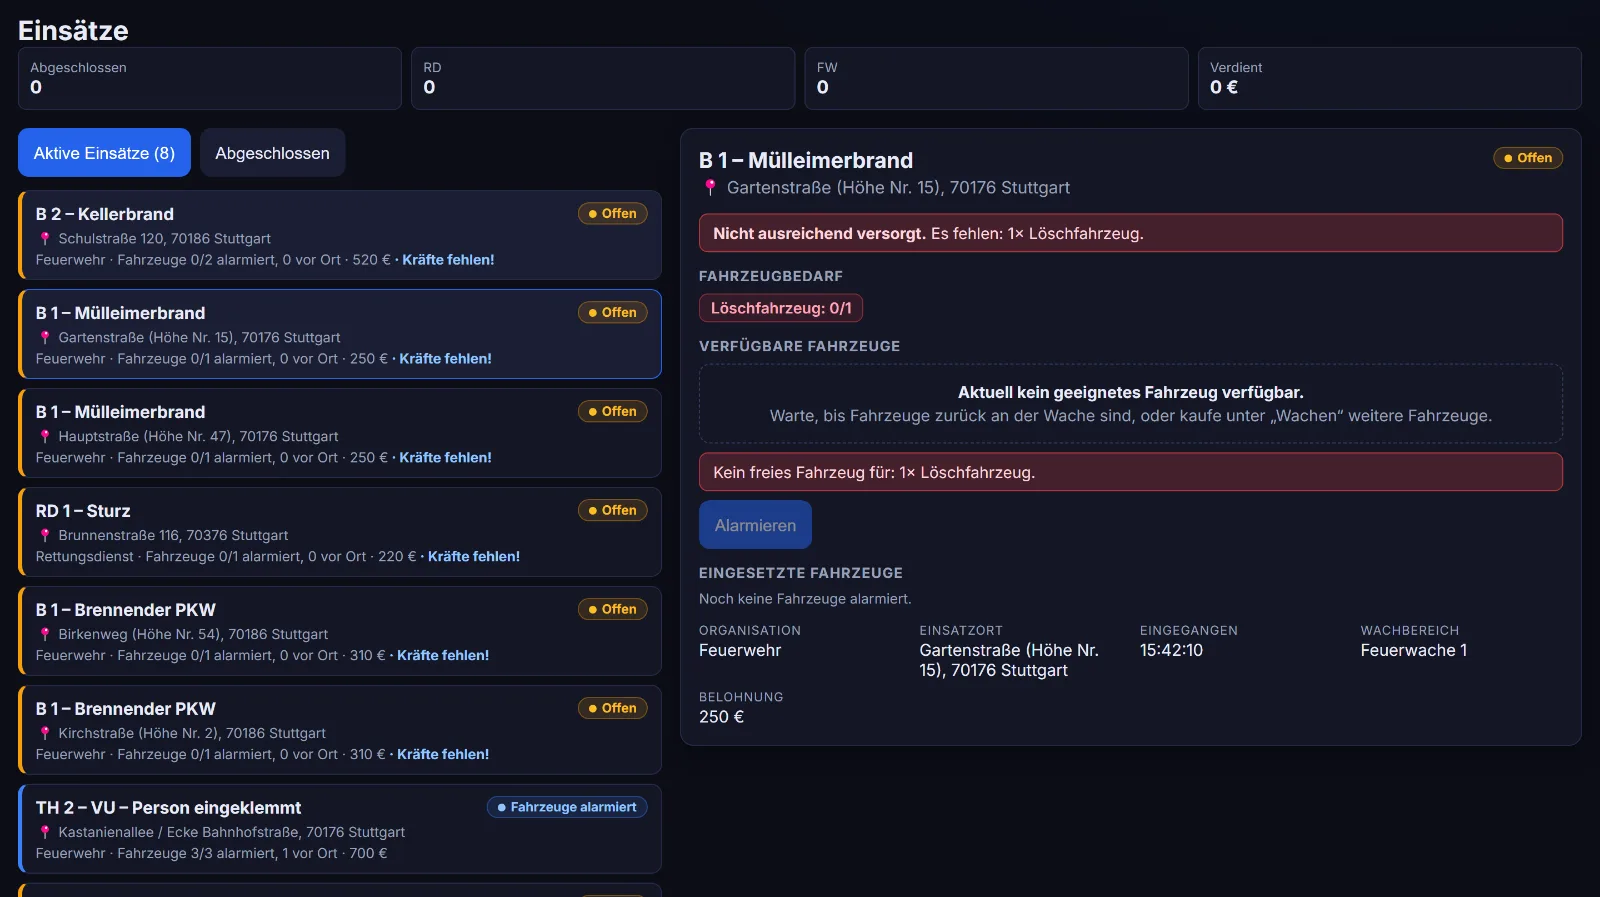
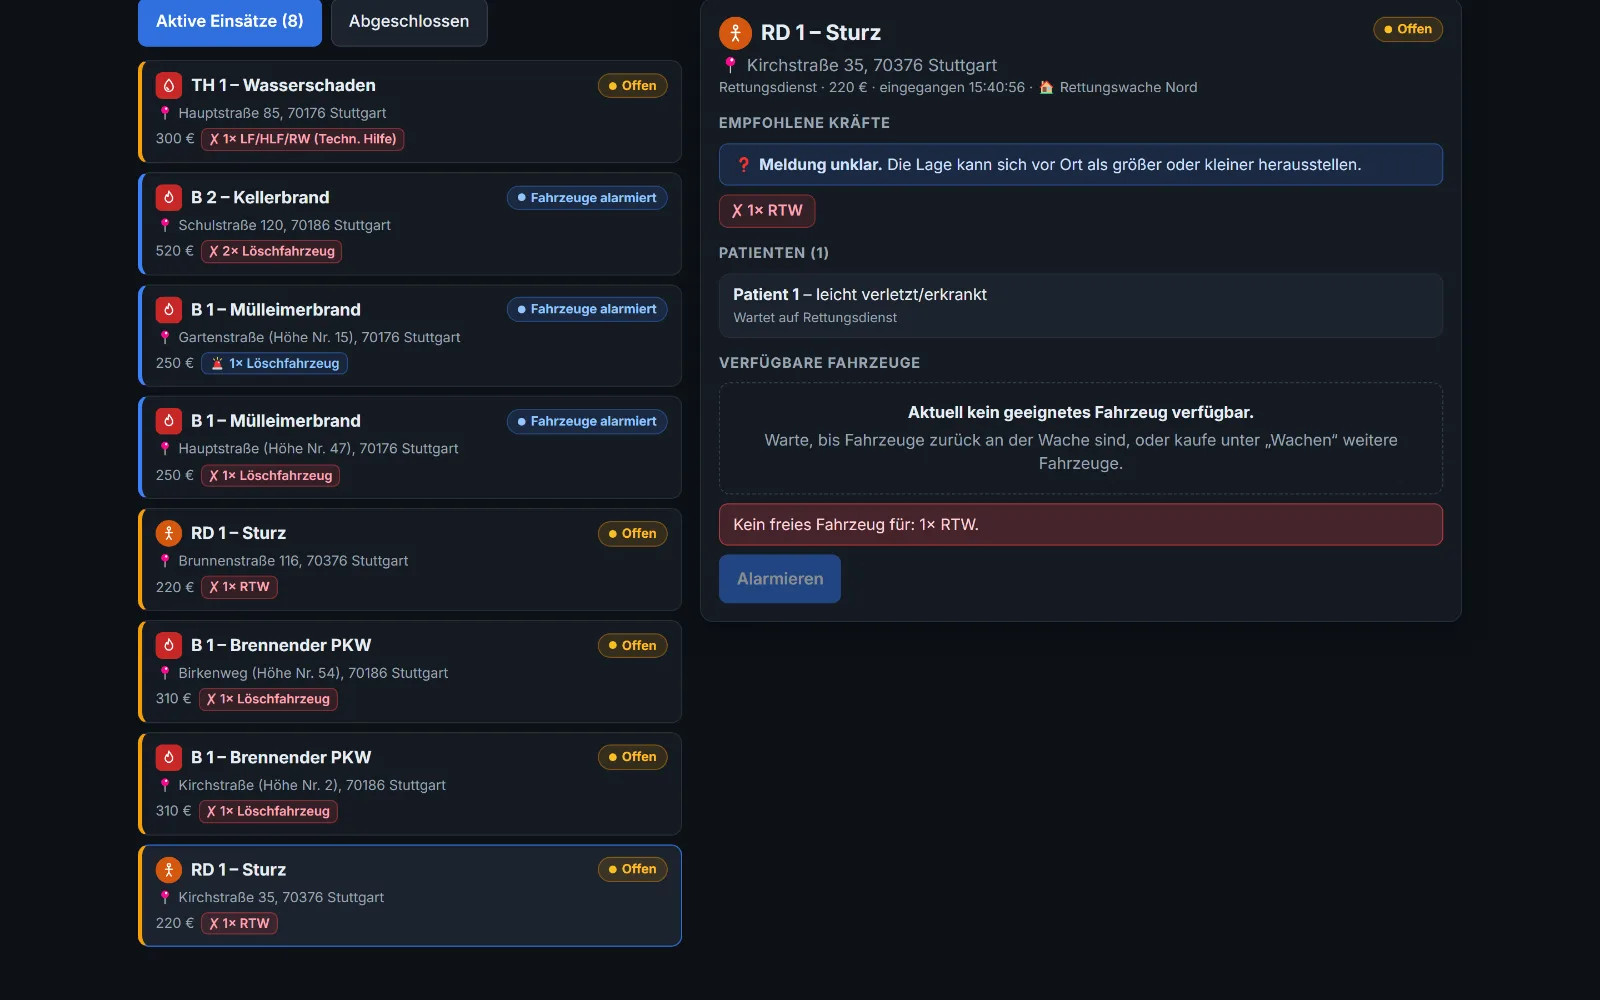
Startseite: Screenshots der aktuellen Spielversion, Hinweis auf Gastmodus

diff --git a/index.html b/index.html
@@ -367,7 +367,7 @@
               Projekt entdecken
             </a>
           </div>
-          <p class="hero-zusatz">Kostenlos · ohne Download · Konto in 30 Sekunden · <a href="https://discord.gg/2WXJZtUFK" target="_blank" rel="noopener">Discord-Community →</a></p>
+          <p class="hero-zusatz">Kostenlos · ohne Download · Konto in 30 Sekunden oder als Gast reinschnuppern · <a href="https://discord.gg/2WXJZtUFK" target="_blank" rel="noopener">Discord-Community →</a></p>
         </div>
         <div class="hero-karte" aria-hidden="true">
           <div class="notruf">
@@ -405,19 +405,19 @@
         </h2>
 
         <figure class="einblick einblick-gross">
-          <img src="bilder/spiel-karte.webp" width="1600" height="897" loading="lazy"
+          <img src="bilder/spiel-karte.webp" width="1600" height="1000" loading="lazy"
             alt="Spielansicht Karte: Wachen, laufende Einsätze und Fahrzeuge auf dem Weg zum Einsatzort">
           <figcaption>Karte – Wachen, Einsätze und Fahrzeuge auf der Anfahrt in Echtzeit.</figcaption>
         </figure>
 
         <div class="einblicke-raster">
           <figure class="einblick">
-            <img src="bilder/spiel-einsaetze.webp" width="1600" height="897" loading="lazy"
+            <img src="bilder/spiel-einsaetze.webp" width="1600" height="1000" loading="lazy"
               alt="Spielansicht Einsätze: Liste offener Einsätze und Details mit Fahrzeugbedarf">
             <figcaption>Einsätze – Fahrzeugbedarf prüfen und die passenden Kräfte alarmieren.</figcaption>
           </figure>
           <figure class="einblick">
-            <img src="bilder/spiel-funk.webp" width="1600" height="897" loading="lazy"
+            <img src="bilder/spiel-funk.webp" width="1600" height="1000" loading="lazy"
               alt="Spielansicht Funk: Alarmierung, FMS-Status und Lagemeldungen der Fahrzeuge">
             <figcaption>Funk – Alarmierung, FMS-Status und Lagemeldungen von vor Ort.</figcaption>
           </figure>
